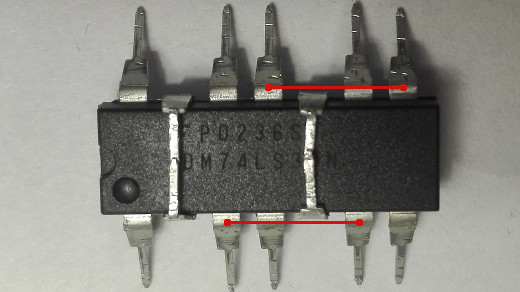
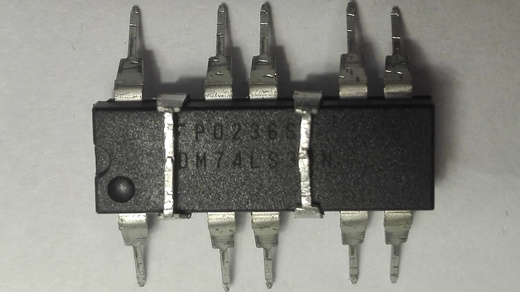
Updated Readme

Changed region(s): [[0.1538, 0.0, 0.8923, 1.0], [0.8, 0.1541, 0.8308, 0.2158]]

diff --git a/Readme.md b/Readme.md
@@ -1,6 +1,6 @@
 # Double-reset drive switch for the Amiga
 
-An Arduino Pro Mini based Amiga proper drive switcher, that switches 
+An internal Arduino Pro Mini based Amiga drive switch, that switches 
 DF0/DF1 when a double-reset is detected.
 
 ## A more in depth rationale
@@ -69,7 +69,7 @@ reset within 2 seconds, will switch the drives.
 First off, you'd need a boot selector adapter for the even CIA. You buy 
 one or build your own. There are very good guides available already on how 
 to build them, such as 
-[Boot selector guide](http://eab.abime.net/showthread.php?t=89581 "this one"), 
+[this guide](http://eab.abime.net/showthread.php?t=89581 "Boot selector guide on EAB"), 
 so I won't rehash that. Bottom line is that you need to separate 
 *pin 13 - _SEL0* and *pin 14 - _SEL1* between the CIA and the socket on 
 the mother board, so that in order to switch drives you can connect _SEL0 
@@ -84,18 +84,19 @@ The pin spacing is normal 2.54mm. You can for example use a short 8 lead
 female-female (Dupont wires) and insert pins from a pin header to do a 
 gender change on one end. Or you could try use one of those female pinheaders
 with extra long male pins (often referred to as stackable pin headers), 
-frequently used for Arduino shields (the pins are usualy pretty flimsy though).
+frequently used for Arduino shields. The pins are usually pretty flimsy and flat,
+but they are also too long, so they can be bent and folded over, to make better contact.
 
-| Pin No | Signal | Note |
-|--|--|---|
-| 1 | _KBCLOCK | |
-| 2 | _KBDATA | |
-| 3 | _KBRESET | We need this line |
-| 4 | Vcc (5v) | We need this line |
-| 5 | KEY | |
-| 6 | Ground | We need this line |
-| 7 | STATUS | |
-| 8 | INUSE | |
+| Pin No | Signal   | Note              |
+|--------|----------|-------------------|
+| 1      | _KBCLOCK |                   |
+| 2      | _KBDATA  |                   |
+| 3      | _KBRESET | We need this line |
+| 4      | Vcc (5v) | We need this line |
+| 5      | KEY      |                   |
+| 6      | Ground   | We need this line |
+| 7      | STATUS   |                   |
+| 8      | INUSE    |                   |
 
 For the actual switch-a-roo part, you'd need:
 * An Arduino Pro Mini + a USB-TTL serial adapter (only for initial code upload)
@@ -105,9 +106,6 @@ For the actual switch-a-roo part, you'd need:
 * Perhaps some heat shrink tubing or something to finish up the build
 
 ## Building
-
-Here's some thousand words showing my final result:
-
 
 Maybe start by uploading the sketch to the Pro Mini. It would be frustrating
 to build the entire thing and then find out the board is bad.
@@ -131,6 +129,8 @@ being careful not to make contact with pin 4 (or 5+10), I left some
 insulation on the wire for that. Make a another wire jumper between 
 pin 11 and 8 (watching out for pin 9 and 13+2).
 
+![74LS38N](img/74LS38N_2.jpg)
+
 Using a needle nose pliers (or similar), bend just the very tip of each 
 of the remaining legs down. That should make it possible just barely fit 
 the chip *on the back* of the Arduino Pro Mini. So flip the Pro Mini over 
@@ -138,20 +138,20 @@ and fit the chip, so that the pins line up as such:
 
 | 74LS38 | Arduino |
 |--------|---------|
-| 1 | A2 |
-| 2 | A1 |
-| 3 | A0 |
-| 4 | 13 |
-| 5 | 12 |
-| 6 | 11 |
-| 7 | 10 |
-| 8 | 9 |
-| 9 | 8 |
-| 10 | 7 |
-| 11 | 6 |
-| 12 | 5 |
-| 13 | 4 |
-| 14 | 3 |
+| 1      | A2      |
+| 2      | A1      |
+| 3      | A0      |
+| 4      | 13      |
+| 5      | 12      |
+| 6      | 11      |
+| 7      | 10      |
+| 8      | 9       |
+| 9      | 8       |
+| 10     | 7       |
+| 11     | 6       |
+| 12     | 5       |
+| 13     | 4       |
+| 14     | 3       |
 
 Once there is a good fit, you can tack the chip in place by soldering in 
 pin 1 and 8 of the NAND (in opposite corners). You can then go on and solder 
@@ -162,6 +162,9 @@ needs be fitted. Bend the collector of the first transistor, because it
 needs to 'skip over' a hole, and then fit it on the Arduino so that the 
 collector is in the hole for pin 4 *on the Arduino* (that would correspond 
 to pin 13 on the NAND, but of course that is pin is already bent over its back).
+
+![74LS38N](img/NPN.jpg)
+
 Pre-tin a piece of signal wire of appropriate length, and jam it in together 
 with the collector (actually, it might be easier to insert the wire first and 
 then push the collector in). This wire should then go to _SEL1 on the Amiga 
